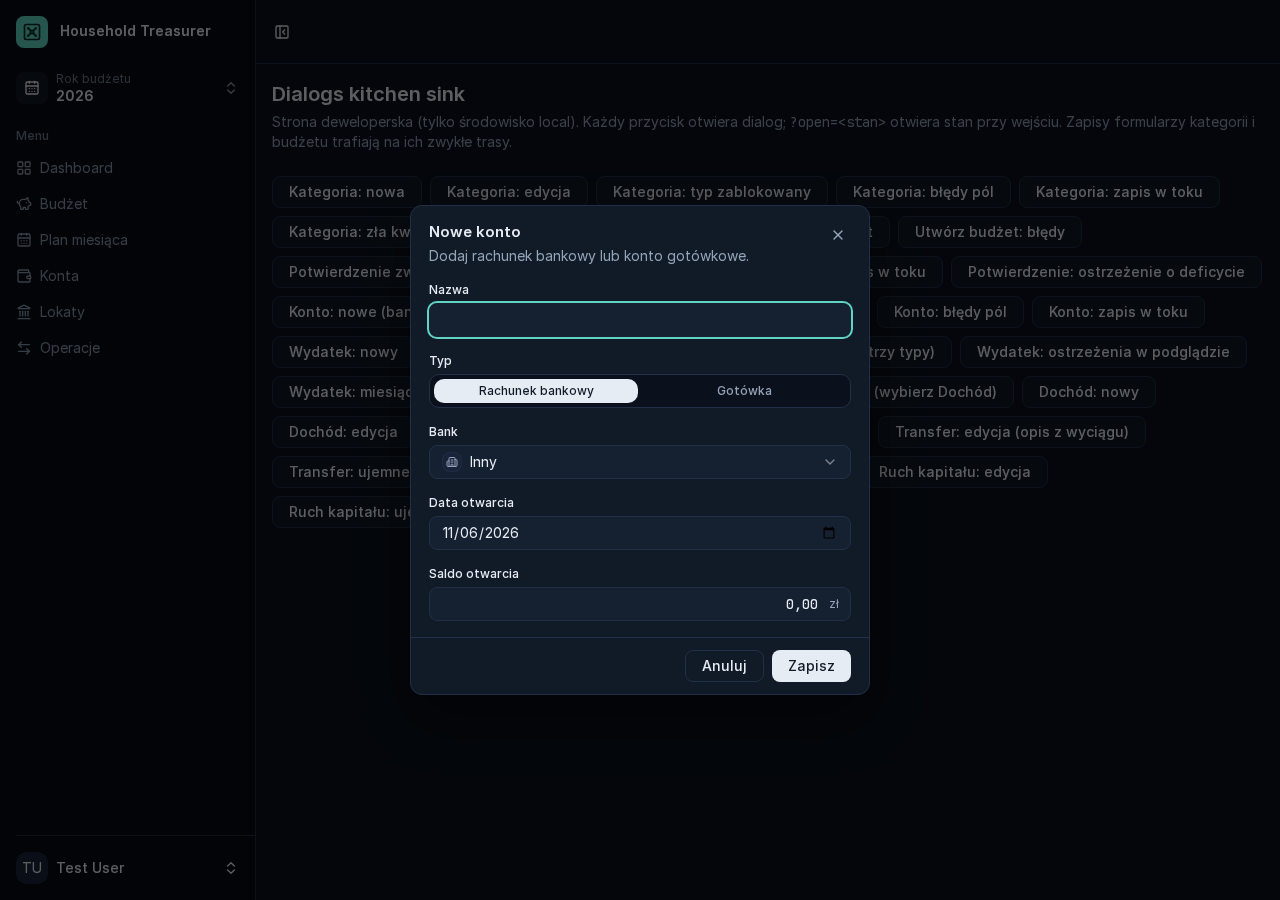
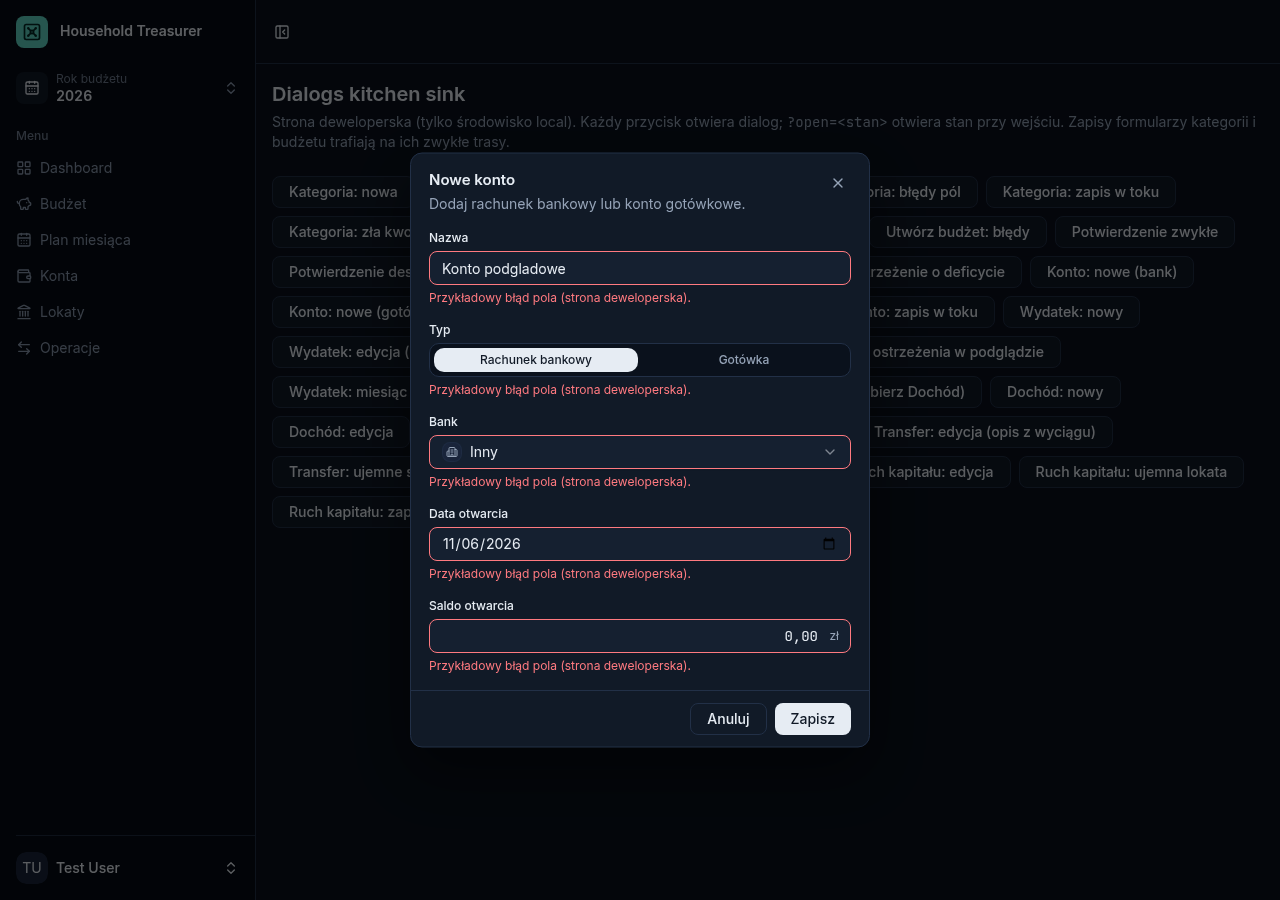
fix(accounts-atrament-ui): poprawki z przeglądu implementacji
F1: zrzuty błędów dialogu konta po wysłaniu formularza, bez statycznych
kopii stanu zapisu. F2: AccountBankSelect przyjmuje id i ariaDescribedby
ze slotu FormField. F4: ujemne saldo zarchiwizowanego konta przez
amountToneClass. F5: wspólny bankLabel w lib/account-identity.ts
(z testem), użyty w Kontach, DashboardHoldings i AccountBankSelect.
F6: docblock straży + follow-up na wspólny helper. Raport przeglądu,
change.md → impl_reviewed.

Claude-Session: https://claude.ai/code/session_01LmWq2eLztC18XusKPSGhRV

diff --git a/resources/js/components/AccountBankSelect.vue b/resources/js/components/AccountBankSelect.vue
@@ -11,14 +11,22 @@ import {
 import { useTranslations } from '@/composables/useTranslations';
 import {
     type AccountBank,
+    bankLabel,
     bankMarkPath,
     bankOptions,
 } from '@/lib/account-identity';
 
-const props = defineProps<{
-    modelValue: AccountBank;
-    invalid?: boolean;
-}>();
+const props = withDefaults(
+    defineProps<{
+        modelValue: AccountBank;
+        invalid?: boolean;
+        /** Trigger id; FormField passes its field id so the label points at it. */
+        id?: string;
+        /** Hint and error ids from FormField. */
+        ariaDescribedby?: string;
+    }>(),
+    { id: 'account-bank', ariaDescribedby: undefined },
+);
 
 const emit = defineEmits<{
     'update:modelValue': [value: AccountBank];
@@ -31,30 +39,18 @@ const selectedBank = computed({
     set: (value: AccountBank) => emit('update:modelValue', value),
 });
 
-function bankLabel(bank: AccountBank): string {
-    const labels: Record<AccountBank, string> = {
-        alior: t.accounts.bank_alior,
-        bnp_paribas: t.accounts.bank_bnp_paribas,
-        ing: t.accounts.bank_ing,
-        lokaty_facto: t.accounts.bank_lokaty_facto,
-        mbank: t.accounts.bank_mbank,
-        pekao: t.accounts.bank_pekao,
-        pko_bp: t.accounts.bank_pko_bp,
-        revolut: t.accounts.bank_revolut,
-        santander: t.accounts.bank_santander,
-        other: t.accounts.bank_other,
-    };
-
-    return labels[bank];
+function bankName(bank: AccountBank): string {
+    return bankLabel(t.accounts, bank);
 }
 </script>
 
 <template>
     <Select v-model="selectedBank">
         <SelectTrigger
-            id="account-bank"
+            :id="id"
             class="w-full"
             :aria-invalid="invalid ? 'true' : undefined"
+            :aria-describedby="ariaDescribedby"
         >
             <SelectValue>
                 <span class="flex items-center gap-2">
@@ -62,9 +58,9 @@ function bankLabel(bank: AccountBank): string {
                         type="bank"
                         :bank="selectedBank"
                         :mark_url="bankMarkPath(selectedBank)"
-                        :name="bankLabel(selectedBank)"
+                        :name="bankName(selectedBank)"
                     />
-                    <span>{{ bankLabel(selectedBank) }}</span>
+                    <span>{{ bankName(selectedBank) }}</span>
                 </span>
             </SelectValue>
         </SelectTrigger>
@@ -75,9 +71,9 @@ function bankLabel(bank: AccountBank): string {
                         type="bank"
                         :bank="bank"
                         :mark_url="bankMarkPath(bank)"
-                        :name="bankLabel(bank)"
+                        :name="bankName(bank)"
                     />
-                    <span>{{ bankLabel(bank) }}</span>
+                    <span>{{ bankName(bank) }}</span>
                 </span>
             </SelectItem>
         </SelectContent>

diff --git a/resources/js/pages/Accounts.vue b/resources/js/pages/Accounts.vue
@@ -15,7 +15,7 @@ import { Button } from '@/components/ui/button';
 import { Label } from '@/components/ui/label';
 import { Switch } from '@/components/ui/switch';
 import { useTranslations } from '@/composables/useTranslations';
-import type { AccountBank } from '@/lib/account-identity';
+import { bankLabel } from '@/lib/account-identity';
 import { amountToneClass } from '@/lib/amount-tone';
 import { formatMoney } from '@/lib/format';
 import { index as accountsRoute } from '@/routes/accounts';
@@ -62,16 +62,12 @@ function accountTypeLabel(type: AccountRow['type']): string {
     return type === 'bank' ? t.accounts.type_bank : t.accounts.type_cash;
 }
 
-function bankLabel(bank: AccountBank): string {
-    return t.accounts[`bank_${bank}`] ?? bank;
-}
-
 function accountCaption(account: AccountRow): string | null {
     if (account.type === 'cash') {
         return t.accounts.cash_caption;
     }
 
-    return account.bank === null ? null : bankLabel(account.bank);
+    return account.bank === null ? null : bankLabel(t.accounts, account.bank);
 }
 
 function balanceToneClass(account: AccountRow): string {
@@ -79,7 +75,9 @@ function balanceToneClass(account: AccountRow): string {
         return amountToneClass(account.current_balance_minor_units);
     }
 
-    return account.current_balance_minor_units < 0 ? 'text-destructive' : '';
+    return account.current_balance_minor_units < 0
+        ? amountToneClass(account.current_balance_minor_units)
+        : '';
 }
 
 const metrics = computed(() => [

diff --git a/resources/js/components/DashboardHoldings.vue b/resources/js/components/DashboardHoldings.vue
@@ -8,7 +8,7 @@ import ListSurface from '@/components/ListSurface.vue';
 import { Button } from '@/components/ui/button';
 import { Card } from '@/components/ui/card';
 import { useTranslations } from '@/composables/useTranslations';
-import type { AccountBank } from '@/lib/account-identity';
+import { bankLabel } from '@/lib/account-identity';
 import { amountToneClass } from '@/lib/amount-tone';
 import { formatDate, formatMoneyAmount } from '@/lib/format';
 import { index as accountsIndex } from '@/routes/accounts';
@@ -29,21 +29,17 @@ function accountCaption(account: AccountSummary): string {
 
     return account.bank === null
         ? t.accounts.type_bank
-        : bankLabel(account.bank);
+        : bankLabel(t.accounts, account.bank);
 }
 
 function termDepositCaption(termDeposit: TermDepositSummary): string {
-    const bank = bankLabel(termDeposit.bank);
+    const bank = bankLabel(t.accounts, termDeposit.bank);
 
     return termDeposit.end_date === null
         ? bank
         : t.dashboard.holdings_deposit_caption
               .replace(':bank', bank)
               .replace(':date', formatDate(termDeposit.end_date));
-}
-
-function bankLabel(bank: AccountBank): string {
-    return t.accounts[`bank_${bank}` as keyof typeof t.accounts] ?? bank;
 }
 
 const showEmptyState = computed(

diff --git a/resources/js/components/AccountFormDialog.vue b/resources/js/components/AccountFormDialog.vue
@@ -205,10 +205,13 @@ function closeDialog(): void {
                     id="account-bank"
                     :label="t.accounts.bank"
                     :error="errors.bank"
+                    v-slot="{ id, describedBy, invalid }"
                 >
                     <AccountBankSelect
+                        :id="id"
                         v-model="bank"
-                        :invalid="Boolean(errors.bank)"
+                        :aria-describedby="describedBy"
+                        :invalid="Boolean(invalid)"
                     />
                 </FormField>
 

diff --git a/resources/js/lib/account-identity.test.ts b/resources/js/lib/account-identity.test.ts
@@ -1,0 +1,12 @@
+import { describe, expect, it } from 'vite-plus/test';
+import { bankLabel } from './account-identity';
+
+describe('bankLabel', () => {
+    it('reads the bank name from the accounts translations', () => {
+        expect(bankLabel({ bank_mbank: 'mBank' }, 'mbank')).toBe('mBank');
+    });
+
+    it('falls back to the enum value when the translation is missing', () => {
+        expect(bankLabel({}, 'pko_bp')).toBe('pko_bp');
+    });
+});

diff --git a/resources/js/lib/account-identity.ts b/resources/js/lib/account-identity.ts
@@ -58,3 +58,11 @@ const bankMarkPaths: Record<AccountBank, string | null> = {
 export function bankMarkPath(bank: AccountBank): string | null {
     return bankMarkPaths[bank];
 }
+
+/** Bank name from the `accounts.bank_*` translations; the enum value when a key is missing. */
+export function bankLabel(
+    accountTranslations: Record<string, string>,
+    bank: AccountBank,
+): string {
+    return accountTranslations[`bank_${bank}`] ?? bank;
+}

diff --git a/tests/Unit/AccountsHardcodedUiTest.php b/tests/Unit/AccountsHardcodedUiTest.php
@@ -2,9 +2,10 @@
 
 /**
  * Accounts view files take values from tokens and named classes in app.css,
- * never from literals (ADR-0044). AccountMarkCompact.vue, AccountIdentityBlock.vue and
- * StatTile.vue are left out because they have consumers outside Accounts
- * (Dashboard, Term Deposits). app.css itself is the token source and is not scanned.
+ * never from literals (ADR-0044). AccountMarkCompact.vue, AccountIdentityBlock.vue,
+ * AccountBankSelect.vue and StatTile.vue are left out because they have consumers
+ * outside Accounts (Dashboard, Term Deposits); scripts/check-ui-literals.mjs still
+ * guards their colour literals. app.css itself is the token source and is not scanned.
  */
 const ACCOUNTS_VIEW_FILES = [
     'resources/js/pages/Accounts.vue',

diff --git a/context/changes/accounts-atrament-ui/reviews/impl-review.md b/context/changes/accounts-atrament-ui/reviews/impl-review.md
@@ -1,0 +1,101 @@
+<!-- IMPL-REVIEW-REPORT -->
+# Implementation Review: Konta w systemie „C · Atrament i morski”
+
+- **Plan**: context/changes/accounts-atrament-ui/plan.md
+- **Scope**: Full plan
+- **Reviewed phases**: 1, 2, 3, 4, 5
+- **Date**: 2026-11-06
+- **Verdict**: NEEDS ATTENTION
+- **Findings**: 0 critical, 2 warnings, 4 observations
+
+Coverage note: phases 1, 3, 4 and 5 have their Automated steps ticked and their Manual steps still pending. Phase 2 has no Manual steps. All five phases were reviewed against `d933db0..53ee426`.
+
+## Verdicts
+
+| Dimension | Verdict |
+|-----------|---------|
+| Plan Adherence | WARNING |
+| Scope Discipline | PASS |
+| Safety & Quality | WARNING |
+| Architecture | PASS |
+| Pattern Consistency | WARNING |
+| Success Criteria | WARNING |
+
+Automated criteria were all re-run green: `composer ci:check` in the Sail image (902 passed, 2 skipped), `vendor/bin/sloppy ci`, `npm run check`, `npm run types:check`, `npm run check:ui`, `npm test` (266), the targeted PostgreSQL tests of each phase, both grep checks, and a break-check for every phase that added tests. No Manual item is ticked. All of them are pending: 1.3, 3.5–3.8, 4.5–4.8, 5.4–5.7.
+
+Unplanned but harmless additions: the sink-only props `defaultType` and `form` on `AccountFormDialog`, which follow the `CategoryFormDialog` pattern; the `account-saving` sink state; and `ListSurface flush` in `Accounts.vue`. "What We're NOT Doing" is respected. `components/ui/*`, `.holdings-list-row`, `AccountIdentityBlock`, `AccountMarkCompact`, `StatTile` and Lokaty are untouched.
+
+## Findings
+
+### F1 — Dialog error and saving screenshots show the idle dialog
+
+- **Severity**: ⚠ WARNING
+- **Impact**: 🏃 LOW — quick decision; fix is obvious and narrowly scoped
+- **Dimension**: Success Criteria
+- **Location**: context/changes/accounts-atrament-ui/screenshots/dialog-account-errors-*.png, dialog-account-saving-{1280,390}-*.png
+- **Detail**: Five of the six `errors`/`saving` shots are byte-identical (md5) to the matching `dialog-account-bank-new-*` shot. The two 1280-light shots are identical to each other. Both states only appear after a submit to the dev `validate` endpoint, and the script never submitted. So server validation errors have no screenshot. The spinner is covered by `dialog-account-saving-live-*`.
+- **Fix**: Re-capture `dialog-account-errors-*` after submitting the sink form, so the errors render. Delete the static `dialog-account-saving-{1280,390}-*` copies, since the `-live` shots cover the spinner.
+- **Decision**: FIXED. `dialog-account-errors-*` was re-captured after a submit to the dev validate endpoint: field errors show under all five fields, and the md5 differs from bank-new. The four static `dialog-account-saving-{1280,390}-*` copies are deleted. The `-live` shots stay.
+
+### F2 — Bank field skips the FormField slot (no aria-describedby, coupled id)
+
+- **Severity**: ⚠ WARNING
+- **Impact**: 🔎 MEDIUM — real tradeoff; pause to reason through it
+- **Dimension**: Plan Adherence
+- **Location**: resources/js/components/AccountFormDialog.vue:203-213, resources/js/components/AccountBankSelect.vue:55
+- **Detail**: The plan puts Bank "przez `FormField` … `AccountBankSelect` jest kontrolką w slocie". The FormField has no `v-slot`, so `describedBy`/`invalid` never reach the control:
+  - the `account-bank-error` text is not linked to the trigger, unlike every other field in the dialog;
+  - the label works only because the FormField `id="account-bank"` matches the id hardcoded in `AccountBankSelect`.
+
+  The old markup had the same gap, so this is not a regression. It leaves the ADR-0040 contract incomplete for this field.
+- **Fix A ⭐ Recommended**: Add optional `id`, `ariaDescribedby` and `invalid` props to `AccountBankSelect`, with defaults keeping today's behaviour, and pass them from the FormField slot.
+  - Strength: completes the FormField contract and removes the id coupling, as in the other fields of this dialog and in `CategoryFormDialog`.
+  - Tradeoff: touches a component shared with other dialogs (`AccountBankSelect` is outside this change's file list), although the props are optional and backward compatible.
+  - Confidence: MED. The other consumers were not inspected for id assumptions.
+  - Blind spot: whether `AccountBankSelect` is used in Term Deposit dialogs with a different id.
+- **Fix B**: Leave as is and record a follow-up for the Lokaty `/10x-ui`, where `AccountBankSelect` is touched anyway.
+  - Strength: keeps this change inside its planned files.
+  - Tradeoff: the bank error stays unannounced to screen readers until then.
+  - Confidence: HIGH. Nothing regresses.
+  - Blind spot: None significant.
+- **Decision**: FIXED (Fix A). `AccountBankSelect` takes optional `id` (default `account-bank`) and `ariaDescribedby`. `AccountFormDialog` passes `id`, `describedBy` and `invalid` from the FormField slot. `TermDepositFormDialog` is unchanged and keeps the default id.
+
+### F3 — Dashboard gained one SUM query, contrary to the plan's performance note
+
+- **Severity**: 💡 OBSERVATION
+- **Impact**: 🏃 LOW — quick decision; fix is obvious and narrowly scoped
+- **Dimension**: Safety & Quality
+- **Location**: app/Http/Controllers/DashboardController.php:57,128, app/Support/TotalFunds.php:15-16
+- **Detail**: Dashboard calls `SpendableLiquidity::forUser` for its own prop and again inside `TotalFunds::forUser`, so it now makes 3 aggregate queries instead of 2. The plan says "Dashboard zostaje przy tej samej liczbie". This is immaterial for single-user data on an indexed `user_id`.
+- **Fix**: Accept it, and note the extra query in the review rather than adding an API to `TotalFunds`.
+- **Decision**: ACCEPTED. One extra indexed SUM on the Dashboard is immaterial for single-user data, so `TotalFunds` gets no new API.
+
+### F4 — Archived negative balance hardcodes `text-destructive`
+
+- **Severity**: 💡 OBSERVATION
+- **Impact**: 🏃 LOW — quick decision; fix is obvious and narrowly scoped
+- **Dimension**: Pattern Consistency
+- **Location**: resources/js/pages/Accounts.vue:77-83
+- **Detail**: `.ai/rules/js.md` says that for archived rows below zero you use `amountToneClass`, and `TermDeposits.vue:64` does. `balanceToneClass` returns the literal `'text-destructive'` instead. The output is identical today, but it would drift if the tone helper changed.
+- **Fix**: Return `amountToneClass(account.current_balance_minor_units)` when the archived balance is below zero.
+- **Decision**: FIXED. `balanceToneClass` returns `amountToneClass(...)` for an archived balance below zero.
+
+### F5 — `bankLabel` duplicated a third time with a raw-enum fallback
+
+- **Severity**: 💡 OBSERVATION
+- **Impact**: 🏃 LOW — quick decision; fix is obvious and narrowly scoped
+- **Dimension**: Pattern Consistency
+- **Location**: resources/js/pages/Accounts.vue:65-67
+- **Detail**: The same lookup exists in `DashboardHoldings.vue:45` and, as an exhaustive `Record<AccountBank, string>`, in `AccountBankSelect.vue:34`. The `?? bank` fallback would show the raw enum value for a missing translation. The Record form fails the type check instead.
+- **Fix**: Move `bankLabel(t, bank)` into `resources/js/lib/account-identity.ts` and use it in the three places. This could be a follow-up, since `DashboardHoldings` is outside this change.
+- **Decision**: FIXED. `bankLabel(accountTranslations, bank)` lives in `resources/js/lib/account-identity.ts`, covered by `account-identity.test.ts`. `Accounts.vue`, `DashboardHoldings.vue` and `AccountBankSelect.vue` use it.
+
+### F6 — Third copy of the hardcoded-UI guard, without AccountBankSelect
+
+- **Severity**: 💡 OBSERVATION
+- **Impact**: 🏃 LOW — quick decision; fix is obvious and narrowly scoped
+- **Dimension**: Pattern Consistency
+- **Location**: tests/Unit/AccountsHardcodedUiTest.php:16-48
+- **Detail**: The same 13 patterns and scan function as `DashboardHardcodedUiTest.php` and `MonthPlanHardcodedUiTest.php`. The plan asked for "na wzór", so this follows the plan, but the copies will drift. `AccountBankSelect.vue` is guarded by `check-ui-literals.mjs:34` but not by this test, and the docblock does not explain that.
+- **Fix**: Follow-up: extract the patterns and scanner into a shared test helper. Meanwhile, name `AccountBankSelect.vue` in the docblock's list of excluded shared components.
+- **Decision**: FIXED (docblock), with a follow-up. The docblock now names `AccountBankSelect.vue` among the excluded shared components. The shared guard helper is queued in `follow-ups/review-fixes.md`.

diff --git a/context/changes/accounts-atrament-ui/follow-ups/review-fixes.md b/context/changes/accounts-atrament-ui/follow-ups/review-fixes.md
@@ -1,0 +1,7 @@
+# Review fixes: accounts-atrament-ui
+
+Source: `context/changes/accounts-atrament-ui/reviews/impl-review.md` (2026-11-06).
+
+## Queued
+
+- **F6: shared helper for the hardcoded-UI guards.** `tests/Unit/AccountsHardcodedUiTest.php`, `DashboardHardcodedUiTest.php` and `MonthPlanHardcodedUiTest.php` each copy the same forbidden-pattern list and the same scan function. Move both into one shared test helper and keep only the file lists in each guard. This is its own small `chore`, outside this change, because it touches the Dashboard and Month Plan guards.

diff --git a/context/changes/accounts-atrament-ui/change.md b/context/changes/accounts-atrament-ui/change.md
@@ -1,7 +1,7 @@
 ---
 change_id: accounts-atrament-ui
 title: Accounts atrament ui
-status: implemented
+status: impl_reviewed
 created: 2026-11-06
 updated: 2026-11-06
 archived_at: null
